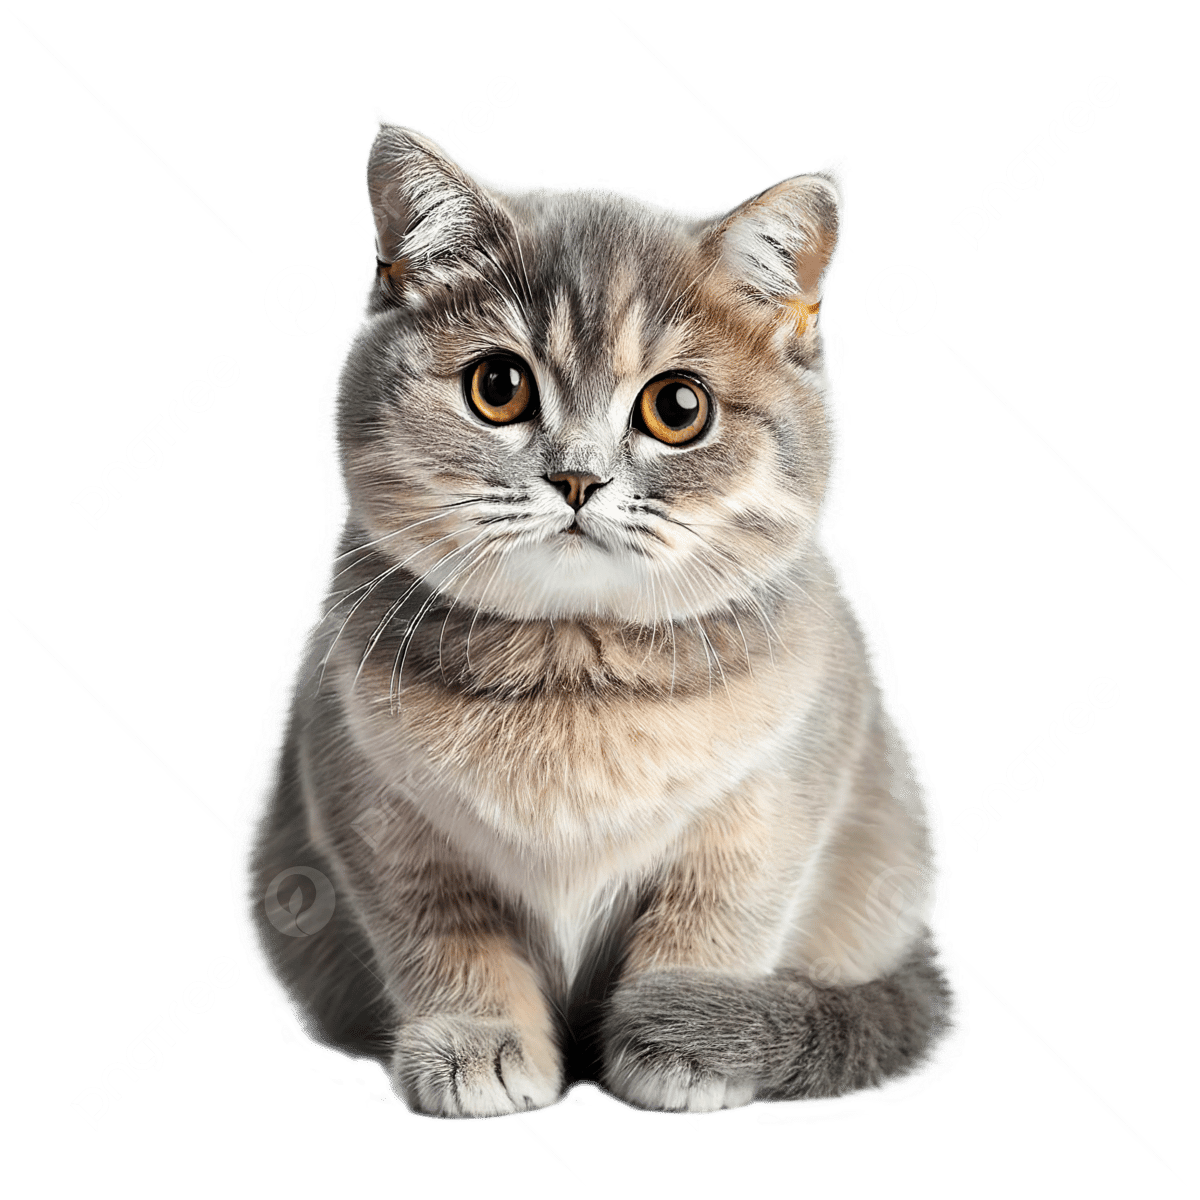
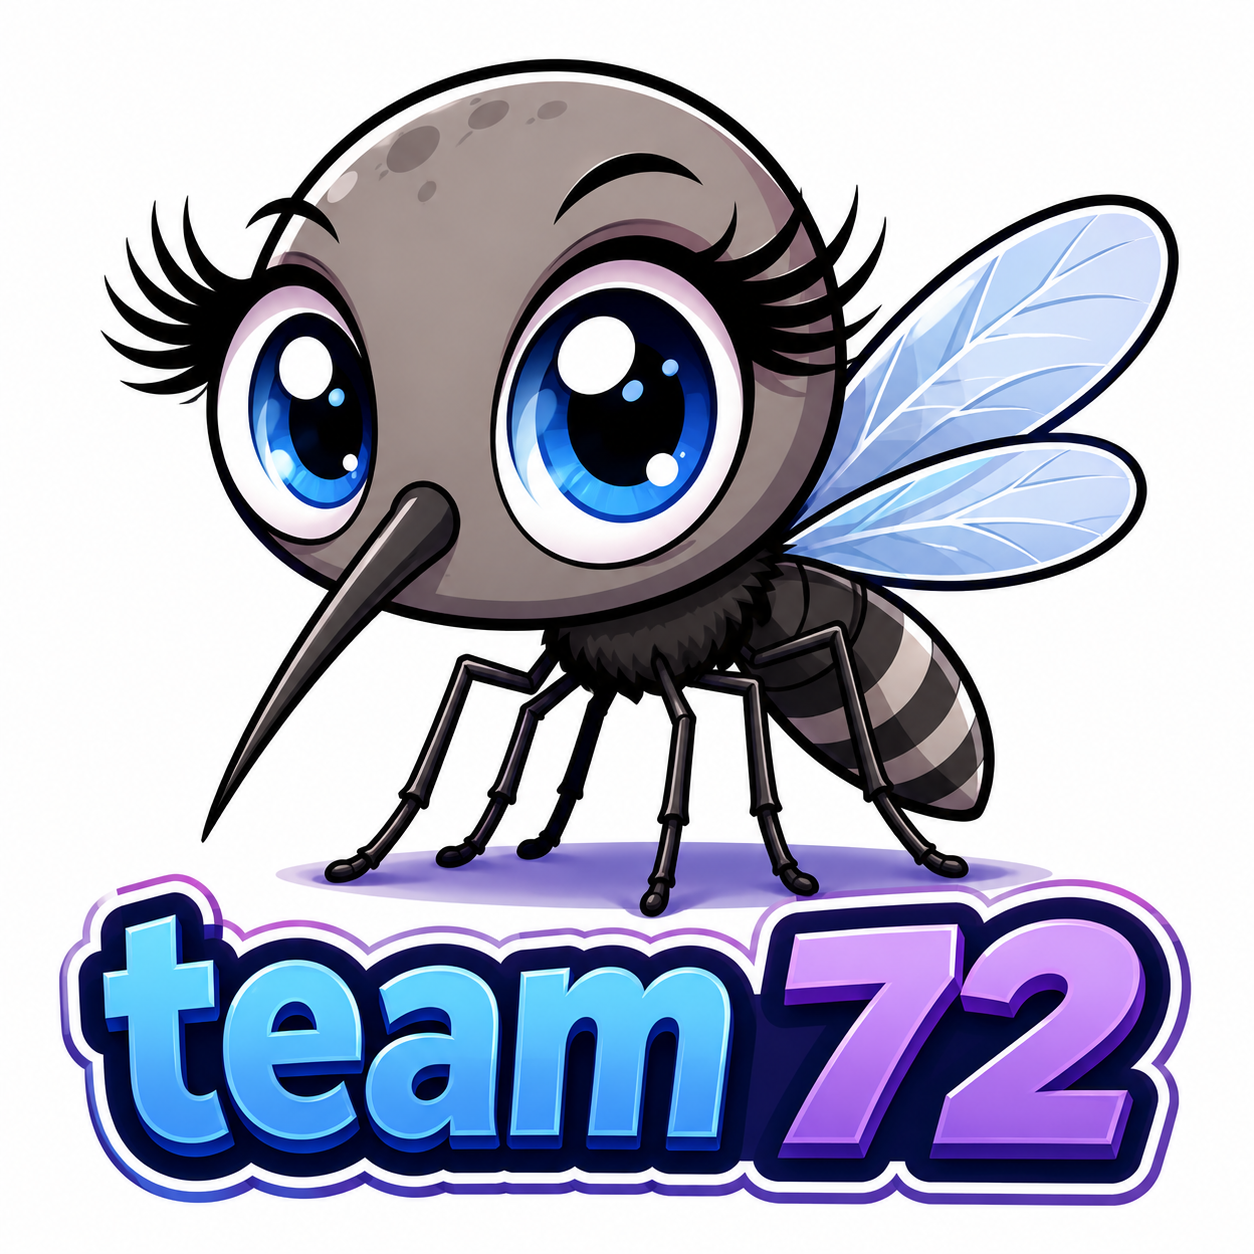
text input lights up

diff --git a/popup.js b/popup.js
@@ -8,7 +8,7 @@ const categories = {
     { id: "email_option5", weight: 10, reason: "Poor grammar, typos, and awkward phrasing are common in phishing emails, often because they are written hastily or translated from another language." },
     { id: "email_option6", weight: 20, reason: "The visible link text can say anything - the real destination URL is what matters. Hovering reveals where you would actually be sent, which in phishing emails is often a fake or malicious site." },
     ],
-    textInput: { id: "email_checker", weight: 10, reason: "Contains mixed script characters!" },
+    textInput: { id: "email_checker", weight: 20, reason: "Contains mixed script characters!" },
     resultId: "email_result",
     reasonListId: "email_reasonList",
   },
@@ -19,20 +19,25 @@ const categories = {
     { id: "text_option3", weight: 10, reason: "Poor grammar and typos suggest the message was written hastily or by an automated tool - a common trait of phishing SMS campaigns." },
     { id: "text_option4", weight: 15, reason: "Unsolicited links in SMS messages are one of the most common phishing vectors. Legitimate organisations rarely ask you to act via a link in a text." },
     { id: "text_option5", weight: 15, reason: "Extra characters or misspellings in a link (e.g. 'paypa1.com' instead of 'paypal.com') are used to trick you into visiting a fake site that looks legitimate." },
-    { id: "text_option6", weight: 20, reason: "If the domain or extension in the SMS link does not match the organisation's real website, the link is fraudulent regardless of how legitimate the message looks." },
-    { id: "text_option7", weight: 20, reason: "Spam and phishing detection tools can flag suspicious content in the message text. An error or warning is a strong indicator the message is not safe." },
-    { id: "text_option8", weight: 15, reason: "Scammers sometimes compromise or impersonate known contacts. An unusual writing style from a familiar number may mean someone else is sending the message." },
+    { id: "text_option6", weight: 20, reason: "If the domain or extension in the SMS link does not match the organisation's real website, the link is fraudulent regardless of how legitimate the message looks." }, 
+    { id: "text_option7", weight: 15, reason: "Scammers sometimes compromise or impersonate known contacts. An unusual writing style from a familiar number may mean someone else is sending the message." },
     ],
-    textInput: { id: "text_checker", weight: 10, reason: "Contains foreign-script characters!" }, 
+    textInput: { id: "text_checker", weight: 20, reason: "Contains foreign-script characters!" }, 
     resultId: "text_result",
     reasonListId: "text_reasonList",
   },
   call: {
     checkboxes: [
-      { id: "call_option1", weight: 10, reason: "Unknown caller number." },
-      { id: "call_option2", weight: 10, reason: "Unknown caller number." },
-      { id: "call_option3", weight: 10, reason: "Unknown caller number." },
-      
+    { id: "call_option1", weight: 15, reason: "Legitimate government institutions always communicate in the official state language. A mismatch suggests the caller is not who they claim to be." },
+    { id: "call_option2", weight: 15, reason: "Any real institution contacting you personally would have your basic details on file. Not knowing your name is a strong sign of a mass scam call." },
+    { id: "call_option3", weight: 10, reason: "Difficulty speaking or understanding the language they called you in suggests the caller may be operating from a foreign scam centre." },
+    { id: "call_option4", weight: 10, reason: "Scripted or incoherent language is common in automated or poorly prepared scam calls." },
+    { id: "call_option5", weight: 15, reason: "Unexpected calls from foreign country codes you have no connection to are a common indicator of international scam operations." },
+    { id: "call_option6", weight: 25, reason: "No legitimate institution will ever ask for your banking credentials, ID codes, card details, or SMS confirmation codes over the phone. This is almost certainly fraud." },
+    { id: "call_option7", weight: 15, reason: "Scammers often pose as officials but only have publicly available information about you. A real institution would know specific details relevant to your case." },
+    { id: "call_option8", weight: 20, reason: "Creating urgency is a manipulation tactic designed to stop you from thinking critically or consulting someone you trust before acting." },
+    { id: "call_option9", weight: 20, reason: "The wangiri scam tricks you into calling back a premium-rate number. If a missed call seems suspicious, do not call back - look up the number first." },
+    { id: "call_option10", weight: 25, reason: "Remote access software gives the caller full control of your device. No legitimate organisation will ever ask you to install such software or share your screen." },
     ],
     textInput: null, // no text input
     resultId: "call_result",
@@ -43,6 +48,11 @@ const categories = {
 
 
 document.addEventListener("DOMContentLoaded", () => {
+    const bgColor = document.body;
+    const green = "#84dcc6";
+    const yellow = "#fdffb6";
+    const orange = "#feab7a";
+    const red = "#ff5c5c";
 
     //tab handling
     document.querySelectorAll(".tablinks").forEach(button => {
@@ -60,6 +70,9 @@ document.addEventListener("DOMContentLoaded", () => {
             const tabName = button.getAttribute("data-tab");
             document.getElementById(tabName).style.display = "block";
             evt.currentTarget.classList.add("active");
+
+            const configMap = { Email: categories.email, Text: categories.text, Call: categories.call };
+            if (configMap[tabName]) updateResult(configMap[tabName]);
         });
     });
 
@@ -70,7 +83,7 @@ document.addEventListener("DOMContentLoaded", () => {
             new RegExp(`\\p{Script=${script}}`, "u").test(value)
         );
         return found.length > 1;
-        }
+    }
 
     //recalculates the numeric result
     function calcScore(config) {
@@ -79,8 +92,12 @@ document.addEventListener("DOMContentLoaded", () => {
             if (document.getElementById(checkbox.id).checked) score += checkbox.weight;
         }
         if (config.textInput) {
+            const textField = document.getElementById(config.textInput.id);
             if (checkText(document.getElementById(config.textInput.id).value)) {
+                textField.style.boxShadow = "0 0 10px rgba(255, 0, 0, 1)";
                 score += config.textInput.weight;
+            } else {
+                textField.style.boxShadow = "none";
             }
         }
         return score;
@@ -109,10 +126,22 @@ document.addEventListener("DOMContentLoaded", () => {
         if (config.textInput) { max_score += config.textInput.weight; }
 
         const resultEl = document.getElementById(config.resultId);
-        if (score > max_score*(2/3)) resultEl.textContent = "High risk - there are many serious signs of phishing. It is better to report and block, not engage.";
-        else if (score > max_score*(1/3)) resultEl.textContent = "Medium risk - there are multiple signs of phishing! It is better to not engage.";
-        else if (score > 0) resultEl.textContent = "Small risk - there are a few signs of phishing. Procede with caution.";
-        else resultEl.textContent = "There are no signs of phishing!";
+        if (score > max_score*(2/3)) {
+            resultEl.textContent = "High risk - there are many serious signs of phishing. It is better to report and block, not engage.";
+            bgColor.style.background = red;
+        }
+        else if (score > max_score*(1/3)){
+            resultEl.textContent = "Medium risk - there are multiple signs of phishing! It is better to not engage.";  
+            bgColor.style.background = orange;
+        } 
+        else if (score > 0){
+            resultEl.textContent = "Small risk - there are a few signs of phishing. Procede with caution.";
+            bgColor.style.background = yellow;
+        } 
+        else {
+            resultEl.textContent = "There are no signs of phishing!";
+            bgColor.style.background = green;
+        }
 
         const list = document.getElementById(config.reasonListId);
         list.innerHTML = "";

diff --git a/window.html b/window.html
@@ -5,6 +5,7 @@
     <metadata encoding="utf-8"></metadata>
 </head>
 <body>
+<div id="window">
 <h1>Phishing detection helper</h1>
 <div class="container">
     <div class="tab">
@@ -27,7 +28,7 @@
         <li><input type="checkbox" id="email_option5" name="email_option5" value="Email_option5">
         <label for="email_option5">Is the email full of typos and illogical language?</label></li><br>
         <li><input type="checkbox" id="email_option6" name="email_option6" value="Email_option6">
-        <label for="email_option6">Hover your mouse over any link the email prompts you to click (but do not click it!) - check the bottom of the window to see what web address is displayed.</label></li><br>
+        <label for="email_option6">Hover your mouse over any link the email prompts you to click (but do not click it!) - check the bottom of the window to see what web address is displayed. Is it different fron the one displayed in the link itself?</label></li><br>
 
         <li><label for="email_checker">Paste the link/name/domain to check if it contains any foreign letter/symbols!</label>
         <input type="text" id="email_checker" name="checker"></li>
@@ -51,9 +52,7 @@
         <li><input type="checkbox" id="text_option6" name="text_option6" value="Text_option6">
         <label for="text_option6">Does the domain and extension in the SMS link differ from the organisation's official website?</label></li><br>
         <li><input type="checkbox" id="text_option7" name="text_option7" value="Text_option7">
-        <label for="text_option7">Does pasting the SMS text into a detection tool return a warning or error?</label></li><br>
-        <li><input type="checkbox" id="text_option8" name="text_option8" value="Text_option8">
-        <label for="text_option8">If the message claims to be from someone you know - does the writing style seem different from usual?</label></li><br>
+        <label for="text_option7">If the message claims to be from someone you know - does the writing style seem different from usual?</label></li><br>
 
         <li><label for="text_checker">Paste the link/name/domain to check if it contains any foreign letter/symbols!</label>
         <input type="text" id="text_checker" name="checker"></li>
@@ -65,11 +64,25 @@
     <div id="Call" class="tabcontent">
         <ol>
         <li><input type="checkbox" id="call_option1" name="call_option1" value="Call_option1">
-        <label for="call_option1">The caller is sus.</label></li><br>
+        <label for="call_option1">Does the caller claim to be from an official government institution but speaks in a foreign language?</label></li><br>
         <li><input type="checkbox" id="call_option2" name="call_option2" value="Call_option2">
-        <label for="call_option2">The call offers something too good to be true</label></li><br>
+        <label for="call_option2">Does the caller claim to be from an official government institution but does not know your name?</label></li><br>
         <li><input type="checkbox" id="call_option3" name="call_option3" value="Call_option3">
-        <label for="call_option3">The call is urging you to press some button</label></li><br>
+        <label for="call_option3">Does the caller struggle to speak or understand the language they called you in?</label></li><br>
+        <li><input type="checkbox" id="call_option4" name="call_option4" value="Call_option4">
+        <label for="call_option4">Does the caller's language sound illogical or hard to follow?</label></li><br>
+        <li><input type="checkbox" id="call_option5" name="call_option5" value="Call_option5">
+        <label for="call_option5">Is the call coming from a foreign country code you have no connection to?</label></li><br>
+        <li><input type="checkbox" id="call_option6" name="call_option6" value="Call_option6">
+        <label for="call_option6">Does the caller ask for sensitive information such as online banking credentials, Smart-ID or eSignature codes, card number or CVV, personal ID number, or SMS confirmation codes?</label></li><br>
+        <li><input type="checkbox" id="call_option7" name="call_option7" value="Call_option7">
+        <label for="call_option7">Does the caller claim to be from an official institution but only knows very general information about you?</label></li><br>
+        <li><input type="checkbox" id="call_option8" name="call_option8" value="Call_option8">
+        <label for="call_option8">Does the caller pressure you to act immediately, using phrases like "act now", "your account will be blocked", or "there is a security issue"?</label></li><br>
+        <li><input type="checkbox" id="call_option9" name="call_option9" value="Call_option9">
+        <label for="call_option9">Did the caller hang up quickly after calling, possibly hoping you will call back on an expensive number (wangiri scam)?</label></li><br>
+        <li><input type="checkbox" id="call_option10" name="call_option10" value="Call_option10">
+        <label for="call_option10">Does the caller ask you to install remote access software (e.g. AnyDesk, TeamViewer) or share your screen via WhatsApp?</label></li><br>
         </ol>
         <h2 id="call_result"></h2>
         <ul id="call_reasonList"></ul>
@@ -98,6 +111,7 @@
             </div>
             </div>
     </div>
+</div>
 </div>
 <script src="popup.js"></script>
 </body>

diff --git a/window.css b/window.css
@@ -8,8 +8,10 @@ body {
   font-family: -apple-system, BlinkMacSystemFont, 'Segoe UI', sans-serif;
   font-size: 15px;
   color: #1a1a1a;
-  background: #f5f5f3;
+  background: #84dcc6;
   padding: 2rem;
+  width: 25rem;
+  transition: background-color 1.5s;
 }
 
 h1 {